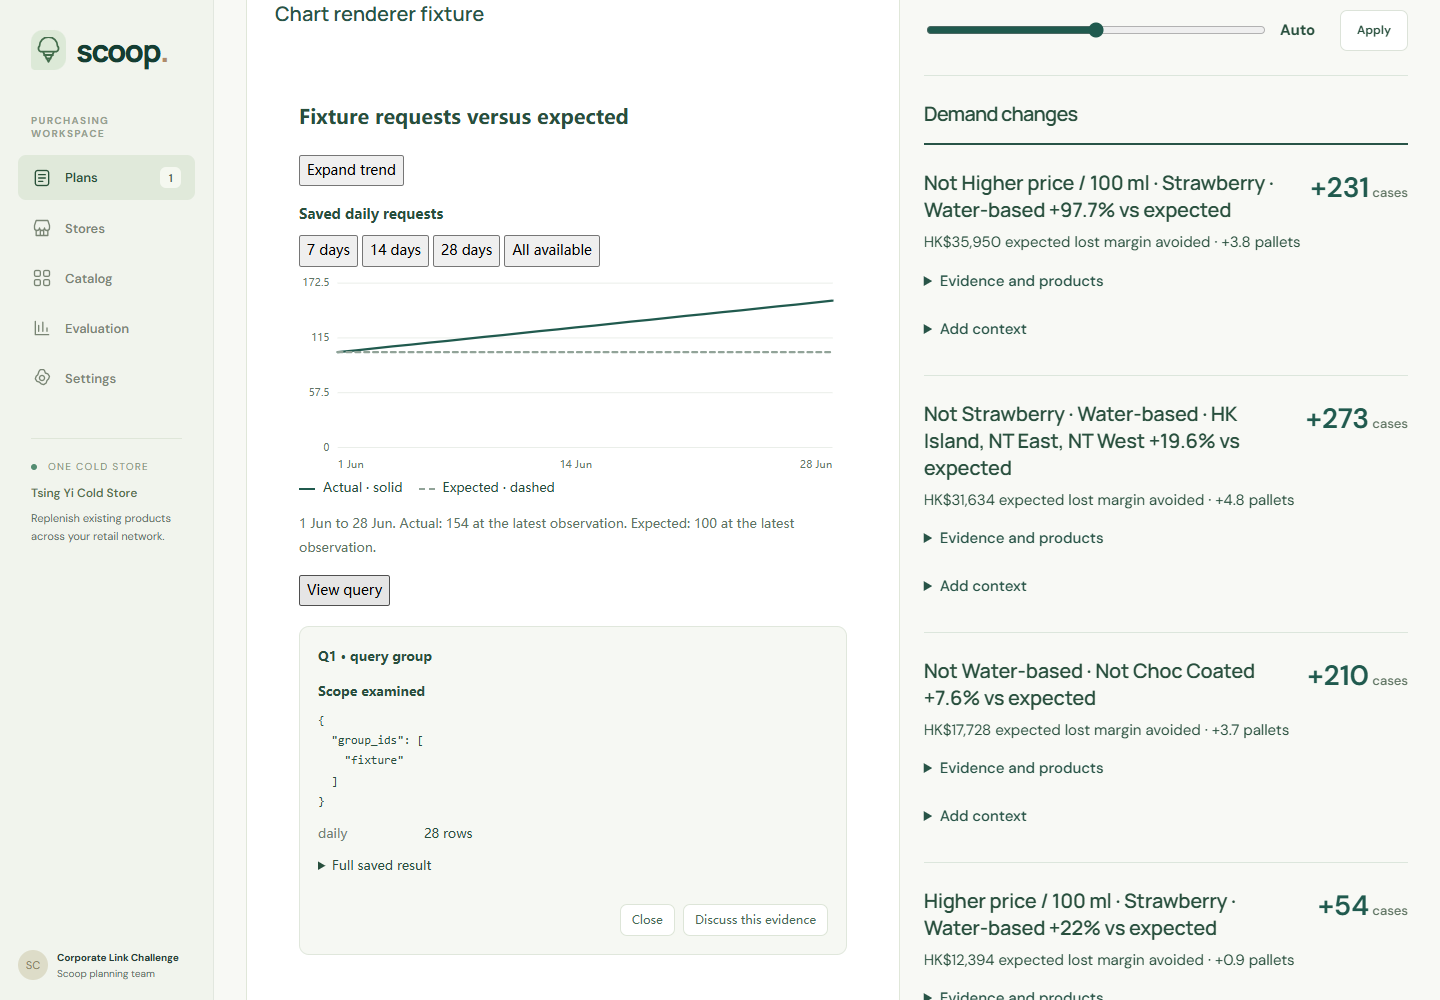
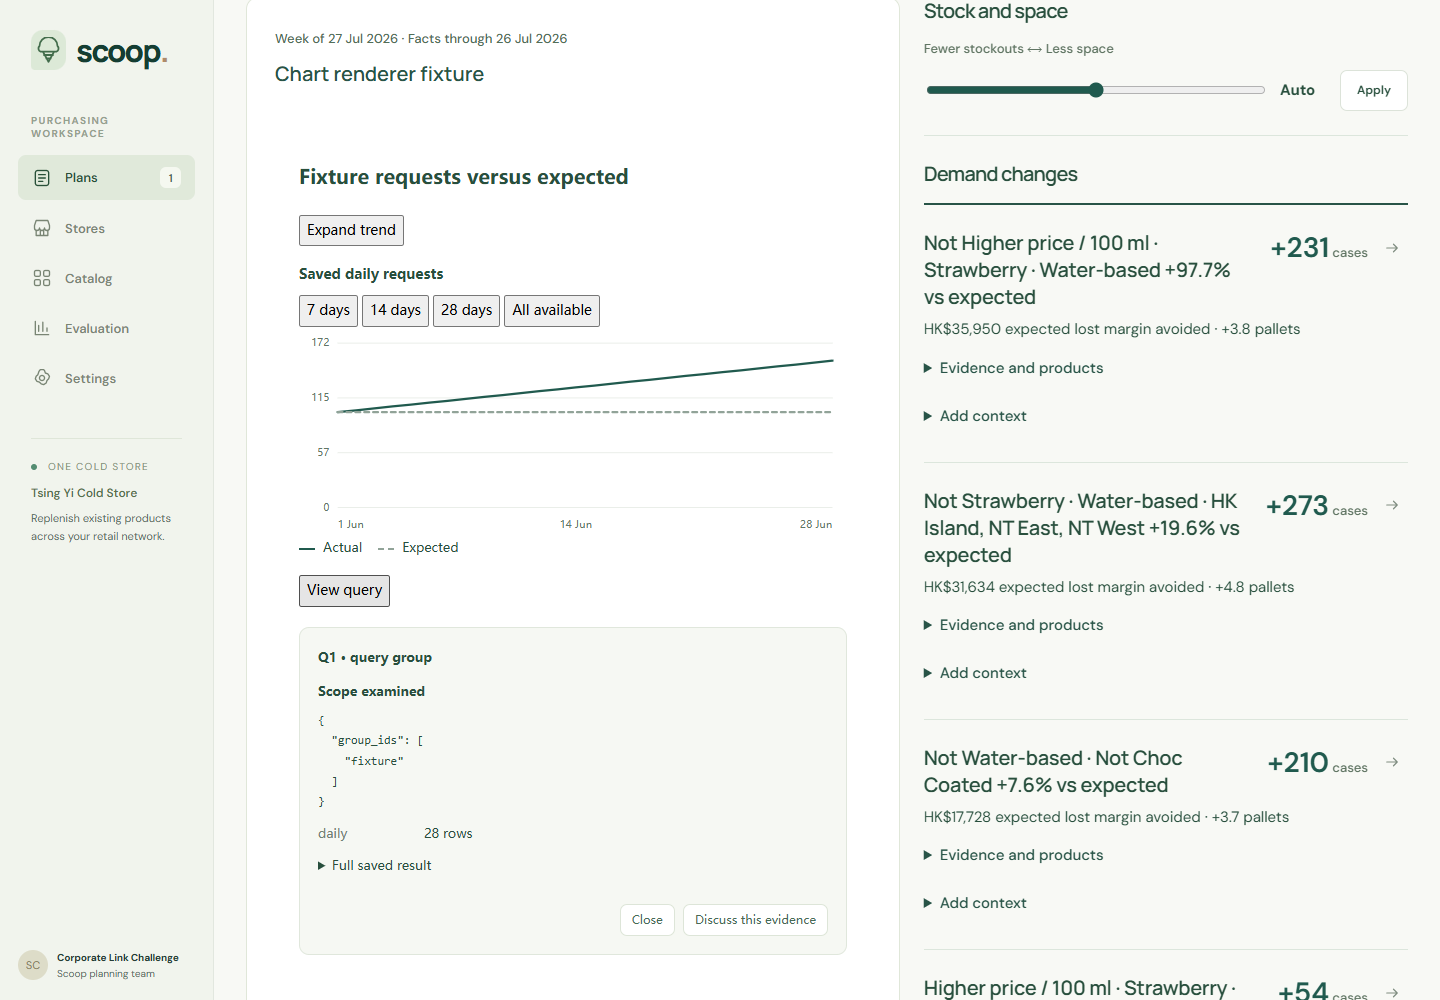
Preserve edited quantities when fitting capacity and allow undo after evidence refresh

diff --git a/frontend/src/CohortCards.tsx b/frontend/src/CohortCards.tsx
@@ -14,7 +14,7 @@ const signed = (v:number, digits=1) => `${v>0?'+':''}${n(v,digits)}`;
 
 export function CohortCards({detail,revision,onChanged}:{detail:Detail;revision:number;onChanged:()=>void}) {
   const [data,setData]=useState<Cohorts|null>(null),[error,setError]=useState(''),[busy,setBusy]=useState(false),[edit,setEdit]=useState<Edit|null>(null);
-  useEffect(()=>{const latest=[...detail.decisions].reverse().find(d=>d.key==='set_override'&&!(d.value as {undone_at?:string})?.undone_at);if(latest){const value=latest.value as Edit;setEdit({edit_id:Number(latest.id),affected_orders:value.affected_orders})}else setEdit(null)},[detail.decisions]);
+  useEffect(()=>{const latest=[...detail.decisions].reverse().find(d=>['set_override','bulk_edit_orders','goal_edit'].includes(d.key)&&!(d.value as {undone_at?:string})?.undone_at);if(latest){const value=latest.value as Edit;setEdit({edit_id:Number(latest.id),affected_orders:value.affected_orders})}else setEdit(null)},[detail.decisions]);
   const [service,setService]=useState(detail.plan.service_level==null?'':String(detail.plan.service_level*100));
   const path=`/plans/${encodeURIComponent(detail.plan.id)}`;
   useEffect(()=>{setService(detail.plan.service_level==null?'':String(detail.plan.service_level*100))},[detail.plan.service_level]);

diff --git a/backend/tests/test_bulk_orders.py b/backend/tests/test_bulk_orders.py
@@ -70,11 +70,16 @@ def test_filter_percent_persistence_and_exact_undo(api,monkeypatch):
         assert load_overrides(session)[0]['value']=={'sku':'IC001','cases':5}
         assert session.get(PurchaseSuggestion,('TESTAPI','IC001')).final_cases==5
         assert session.get(PurchaseSuggestion,('TESTAPI','IC002')).final_cases is None
+        # Opening the cards refreshes derived evidence after the edit receipt.
+        plan=session.get(Plan,'TESTAPI')
+        plan.summary={**plan.summary,'cohort_cards':[{'id':'refreshed'}],
+                      'cohort_model':{'leaves':[]},'discussion':{'messages':['kept']}}
     undo=client.post(f"/api/plans/TESTAPI/edits/{result['edit_id']}/undo")
     assert undo.status_code==200,undo.text
     with scope() as session:
         assert load_overrides(session)==[]
         assert order_snapshot(session,session.get(Plan,'TESTAPI'))[0]['suggested_cases']==3
+        assert session.get(Plan,'TESTAPI').summary['discussion']=={'messages':['kept']}
 
 
 def test_set_cases_and_invalid_filter_are_atomic(api,monkeypatch):
@@ -114,7 +119,9 @@ def test_fit_capacity_persists_whole_plan_and_reports_unavoidable_excess(api,mon
     original=planning.suggest_orders
     calls=[]
     def track(*args,**kwargs):
-        if kwargs.get('capacity_limit') is not None:calls.append(kwargs['capacity_limit'])
+        if kwargs.get('capacity_limit') is not None:
+            calls.append(kwargs['capacity_limit'])
+            assert kwargs['initial_cases']=={'IC001':3,'IC002':4}
         return original(*args,**kwargs)
     monkeypatch.setattr(planning,'suggest_orders',track)
     monkeypatch.setattr(planning,'confirmation_capacity',lambda day,cases:{
@@ -146,3 +153,16 @@ def test_fit_capacity_uses_existing_greedy_and_reports_inherited_excess():
     assert tight.final_cases.sum()<loose.final_cases.sum()
     assert tight.inherited_overcapacity_pallets.iloc[0]>0
     assert tight.projected_pallets.iloc[0]>=tight.inherited_overcapacity_pallets.iloc[0]+.9
+
+
+def test_capacity_fit_starts_from_current_cases_instead_of_new_recommendation():
+    item=SkuInput(sku='A',mean=10,pdays=7,price=20,cost=10,units_per_case=10,
+        cases_per_pallet=10,moq_cases=1,on_hand=20,on_order=0,lead_days=2)
+    ratios=np.array([.8,1,1.2])
+    assert plan_orders([item],ratios,2).final_cases.iloc[0]==0
+    retained=plan_orders([item],ratios,2,initial_cases={'A':9})
+    assert retained.final_cases.iloc[0]==9
+    reduced=plan_orders([item],ratios,.7,initial_cases={'A':9})
+    assert reduced.final_cases.iloc[0]==5
+    assert reduced.capacity_cut_cases.iloc[0]==4
+    assert reduced.projected_pallets.iloc[0]<=.7+1e-10

diff --git a/backend/scoop/api/cohorts.py b/backend/scoop/api/cohorts.py
@@ -140,8 +140,9 @@ def bulk_edit_orders(session, plan, request, source='ui'):
         target=capacity.capacity_pallets*value
         directions=[service.row(d) for d in service.objects(session,DirectionItem,plan.id)]
         result=suggest_orders(plan.week_start,directions,service_level=plan.service_level,goal=plan.goal,
-                              overrides=load_overrides(session,plan.week_start),capacity_limit=target,apply_case_overrides=False)
-        cases={r.sku:min(current[r.sku],int(r.final_cases)) for r in result.itertuples()}
+                              overrides=load_overrides(session,plan.week_start),capacity_limit=target,
+                              apply_case_overrides=False,initial_cases=current)
+        cases={r.sku:int(r.final_cases) for r in result.itertuples()}
     for sku,count in cases.items():
         put_override(session,{'tag_path':[],'districts':[],'type':'cases','value':{'sku':sku,'cases':count},'note':'Order quantity edit'})
     session.flush()
@@ -244,8 +245,10 @@ def undo_context(session, plan, edit_id):
         return {'edit_id':edit.id,'undone':True,'affected_orders':[]}
     before, after = value['before'], value['after']
     current = edit_snapshot(session,plan)
-    current_summary={k:v for k,v in (current['summary'] or {}).items() if k!='discussion'}
-    after_summary={k:v for k,v in (after['summary'] or {}).items() if k!='discussion'}
+    # Read-time model/card refreshes and conversation do not edit the plan.
+    derived = {'discussion', 'cohort_model', 'cohort_cards', 'weekly_review'}
+    current_summary={k:v for k,v in (current['summary'] or {}).items() if k not in derived}
+    after_summary={k:v for k,v in (after['summary'] or {}).items() if k not in derived}
     if {**current,'summary':current_summary} != {**after,'summary':after_summary}:
         raise HTTPException(409, 'Later plan edits exist. Undo those changes first.')
     save_overrides(session, before['overrides'])

diff --git a/backend/scoop/planning.py b/backend/scoop/planning.py
@@ -316,7 +316,8 @@ def suggest_orders(as_of: date, directions: list[dict], service_level: float | N
                    pending_arrivals: dict | None = None, weather_scenario=None,
                    cohort_result: dict | None = None, overrides: list[dict] | None = None,
                    capacity_limit: float | None = None,
-                   apply_case_overrides: bool = True) -> pd.DataFrame:
+                   apply_case_overrides: bool = True,
+                   initial_cases: dict[str, int] | None = None) -> pd.DataFrame:
     art = artifacts()
     st = art.static
     monthly = art.run_for(as_of)
@@ -346,7 +347,7 @@ def suggest_orders(as_of: date, directions: list[dict], service_level: float | N
     capacity = float(read_sql("SELECT capacity_pallets FROM nodes WHERE id = 'DC1'").capacity_pallets.iloc[0])
     baseline, arrival_mask = capacity_projection(as_of, pos, st, model, adj, pending_arrivals, weather_scenario=weather_scenario)
     plan = plan_orders(items, monthly.ratio_values, capacity if capacity_limit is None else capacity_limit, service_level,
-                       capacity_baseline=baseline, arrival_mask=arrival_mask)
+                       capacity_baseline=baseline, arrival_mask=arrival_mask, initial_cases=initial_cases)
     wd = prod.order_weekday.reindex(plan.sku).to_numpy()
     case_edits = cohort_result.get('cases_overrides', {}) if apply_case_overrides else {}
     if case_edits:

diff --git a/backend/tests/test_discussion.py b/backend/tests/test_discussion.py
@@ -63,16 +63,21 @@ def test_duplicate_adds_and_foreign_ids_cannot_cross_plans(api):
             assert any(item['title']==title for item in result['discussion']['items'])
 
 
-def test_answered_seeds_and_offline_classification_resolve(api):
+def test_answered_topics_resolve_but_removed_classification_does_not_edit(api):
     client, scope, _, _=api
     with scope() as session:session.get(Question,'TESTAPI-Q').answer='weather'
     assert client.get('/api/plans/TESTAPI').json()['discussion']['open_count']==0
     with scope() as session:
         session.get(Question,'TESTAPI-Q').answer=None
         session.get(Plan,'TESTAPI').summary={}
+    before=client.get('/api/plans/TESTAPI').json()
     result=client.post('/api/plans/TESTAPI/chat',json={'message':'Record this as persistent','stage':'discover','context':{'finding_id':'TESTAPI-F'}}).json()
-    assert result['discussion']['open_count']==0
-    assert result['actions'][0]['type']=='classification'
+    assert result['discussion']['open_count']==1
+    assert result['actions']==[]
+    after=client.get('/api/plans/TESTAPI').json()
+    assert after['orders']==before['orders']
+    assert after['decisions']==before['decisions']
+    assert 'classify_finding' not in {d['name'] for d in tools.declarations()}
 
 
 def test_informational_model_agenda_edit_preserves_business_and_stream_contract(api,monkeypatch):

diff --git a/backend/scoop/algorithms/replenish.py b/backend/scoop/algorithms/replenish.py
@@ -85,7 +85,8 @@ def _uncertain_ratio_quantiles(ratios: np.ndarray, variance: float, probabilitie
 
 
 def plan_orders(items: list[SkuInput], ratios: np.ndarray, capacity_pallets: float, service_level: float | None = None, capacity_baseline: np.ndarray | None = None,
-                arrival_mask: np.ndarray | None = None) -> pd.DataFrame:
+                arrival_mask: np.ndarray | None = None,
+                initial_cases: dict[str, int] | None = None) -> pd.DataFrame:
     rows = []
     for it in items:
         cr = critical_ratio(it.price, it.cost, service_level)
@@ -99,6 +100,8 @@ def plan_orders(items: list[SkuInput], ratios: np.ndarray, capacity_pallets: flo
         cases = math.ceil(need / it.units_per_case) if need > 0 else 0
         if cases:
             cases = max(cases, it.moq_cases)
+        if initial_cases is not None:
+            cases = initial_cases.get(it.sku, 0)
         rows.append({
             "sku": it.sku,
             "pdays": it.pdays,

diff --git a/docs/overnight-report.md b/docs/overnight-report.md
@@ -12,7 +12,7 @@ The user's final handoff (`pasted-text-1.txt`, attachment 6b5dc399-bd07-404a-850
 
 ## Remaining phases
 
-P1 null-world acceptance failed (12/17 weeks unsplit, 70.6% versus required 95%). P2 contextual overrides and uncertainty propagation, P3 agent tools and grounding, P4 unified pages/dashboard/Play, P5 typography and copy cleanup, P6 demo week selection, P7 documentation and clean-clone setup, P8 browser walkthrough and screenshot delivery are not yet implemented or verified.
+P1 null-world acceptance failed (12/17 weeks unsplit, 70.6% versus required 95%). P2 context controls and P3 report/tool work are implemented in part, with evidence below. P3 unified widget tools, P4 unified pages/dashboard/Play, P5 typography and copy cleanup, P6 demo week selection, P7 documentation and clean-clone setup, and P8 full browser walkthrough remain incomplete.
 
 ## Existing state and exclusions
 
@@ -35,7 +35,7 @@ The previously implemented Trend Explorer and hand-drawn report charts are not t
 - Read-only seed 93 / 27 July fit: 300 units, 6 leaves. The path water-based AND strawberry AND not-high-price-per-100ml isolates exactly IC006, IC061, IC062 and IC063. Their factors are 1.9979, 2.0560, 1.9732 and 1.9783, below raw recent observed/expected ratios 2.1855, 2.2708, 2.1560 and 2.2696. Evidence: `reports/cohort-seed93-evaluation.json`.
 - Read-only integrated order calculation: the four final case quantities are 42, 31, 101 and 54. Projected warehouse peak is 69.6741 pallets, including inherited stock/pipeline; this is not a claim that occupancy is below the 56-pallet physical limit.
 - Synthetic null-unit test: 19/20 weeks remain unsplit. This is not a substitute for the requested actual null world. `scripts/evaluate-cohort-null.py` trains monthly forecasts against `null_orders(93)` and evaluates the same preparation/fitting path without altering the demo database; its result is 12/17 weeks unsplit (70.5882%), below the required 95%. Five root splits occur on 11 May, 29 June, 27 July, 10 August and 24 August. Full evidence: `reports/cohort-null-evaluation.json`. No parameters have been tuned.
-- P2 uncertainty propagation, overrides and enriched cards remain unimplemented.
+- P2 work followed this checkpoint; see the subsequent section.
 
 ### P1 unresolved acceptance and next phase
 
@@ -54,4 +54,15 @@ P1 is not complete. The specified max-gain paired-permutation procedure fails th
 
 ### Checkpoint delivery status
 
-P1 integration and its failed null acceptance were committed locally as `7f69ea1`. This continuation has not pushed the newer checkpoints because the phase-level acceptance is still incomplete. The earlier user-requested push at `ea5e8f8` succeeded. P3–P8 remain outstanding; no overall completion is claimed.
+User-requested checkpoints were pushed at `14862b3` and `c998d62`; these are work-in-progress snapshots, not phase acceptance claims. P1's null acceptance remains unresolved. P3–P8 remain outstanding; no overall completion is claimed.
+
+### P2/P3 subsequent implementation and verification
+
+- Cohort cards and context controls now render alongside the report. In the actual seed-93 browser flow, an end date of 10 August changed the leading card from +231 to +158 cases; Undo restored +231 and the previous Execute stage. This verifies the direct control path, not the required live-agent utterance.
+- Report charts now use application-rendered `Chart` data from evidence. The renderer test passed in Edge and saved `docs/screenshots/report-chart-renderer-fixture.png`. Its report is explicitly a fixture; it is not a regenerated Gemini report or the full P8 walkthrough.
+- Report claim grounding checks cited numbers, percentage units and dates, with one repair round before offline fallback. Full method traces are retained in program evidence but omitted from the initial model context to keep the request manageable.
+- Context, goal and batch quantity edits record snapshots and expose shared Undo receipts. Capacity fitting now starts the existing greedy cut from current case quantities, preserving manual quantities whenever the requested space limit already fits. Derived card/report refreshes no longer invalidate Undo; later business-state edits still do.
+- Focused verification after these corrections: 9 bulk-order/context tests passed; TypeScript and Vite build passed. Full backend suite: 185 passed, one existing Starlette/AnyIO warning. The first run had four temporary-directory permission errors and one obsolete classification-flow assertion; using a dedicated runtime temp directory and replacing that assertion with the current no-classification behavior resolved them. Edge renderer test: 1 passed (17.6 seconds); screenshot inspected with chart, time controls and query visible.
+- Remaining P3 work includes shared dashboard/widget tools and verifying the specified utterance in the actual chat. Remaining P4 work includes grouped editable orders, server-side dashboard layout, the complete consequence window and result presentation.
+
+Earlier P2 checkpoint paragraphs describe the state at that checkpoint; the frontend and Undo limitations there have since been addressed as recorded above. The active seed-93 warehouse capacity is 68 pallets; the older reference to 56 pallets above is stale and must not be used to interpret current capacity results.
